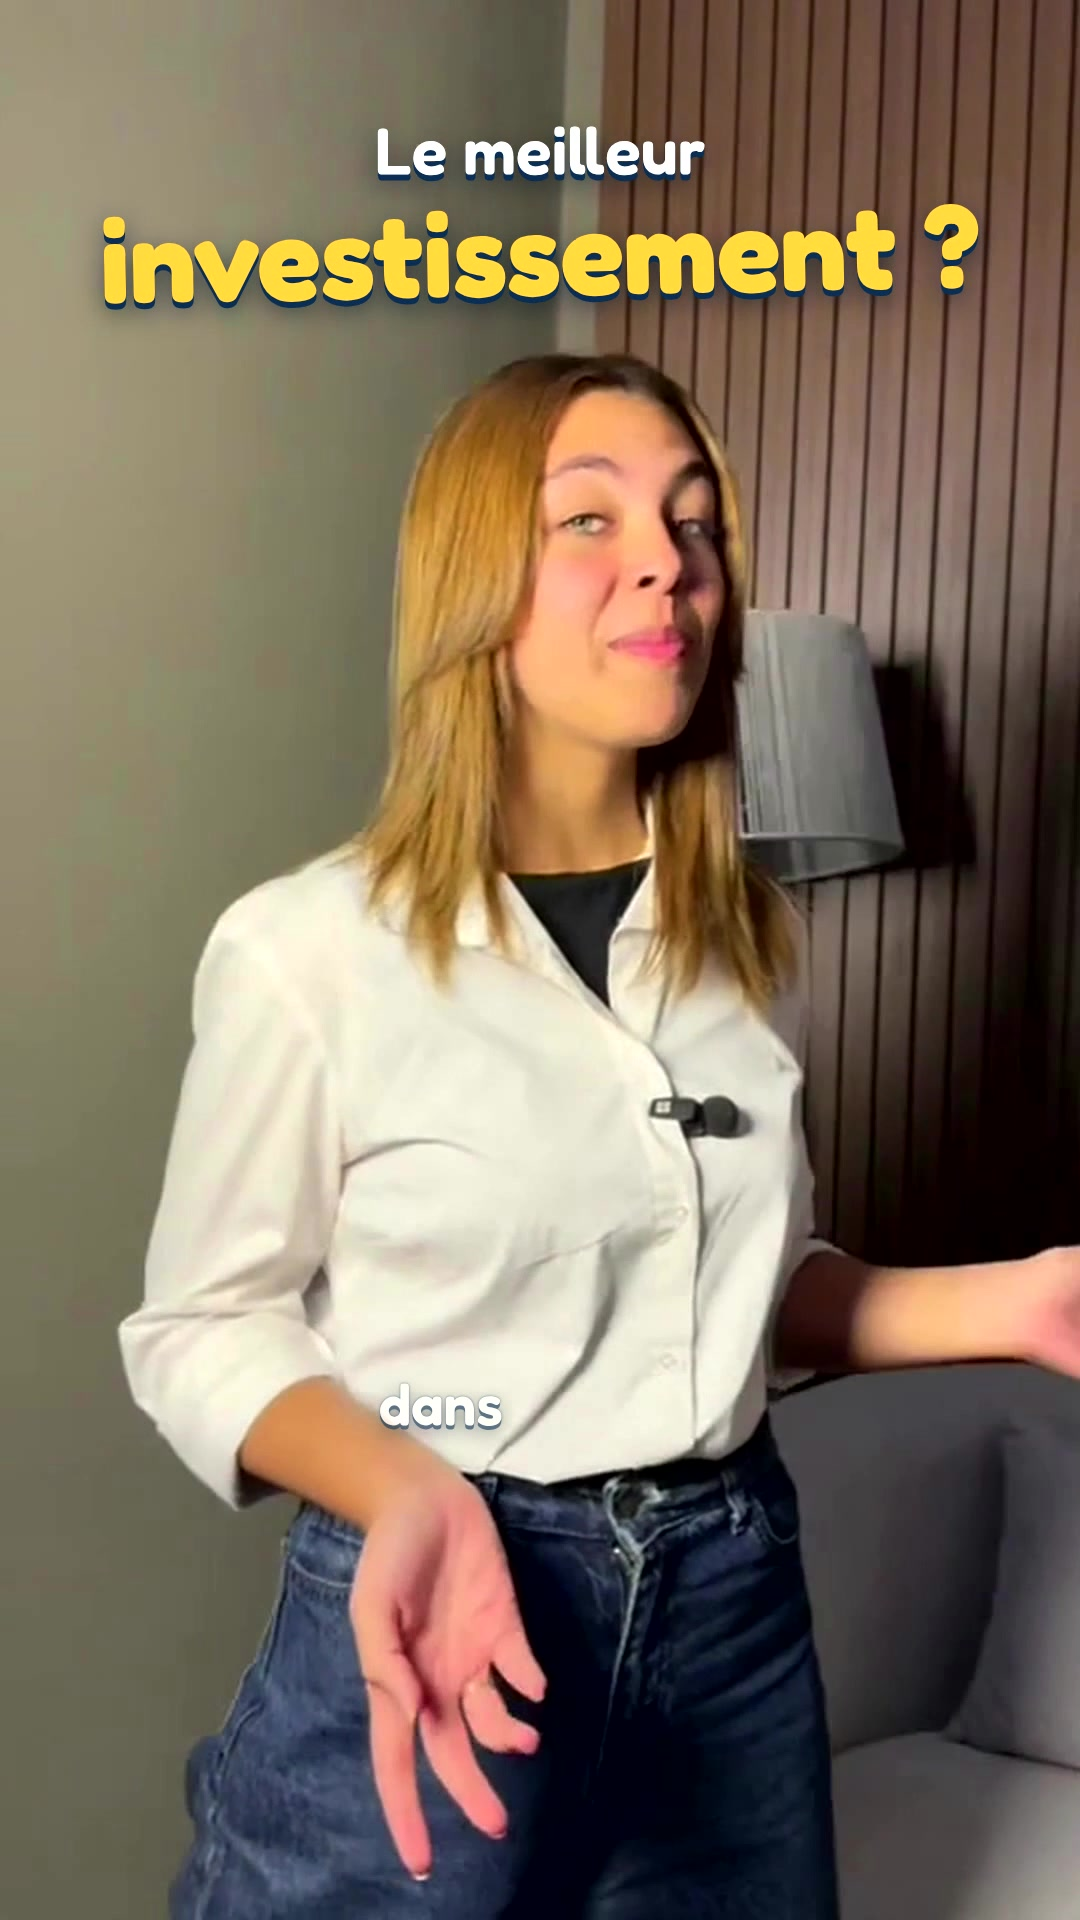
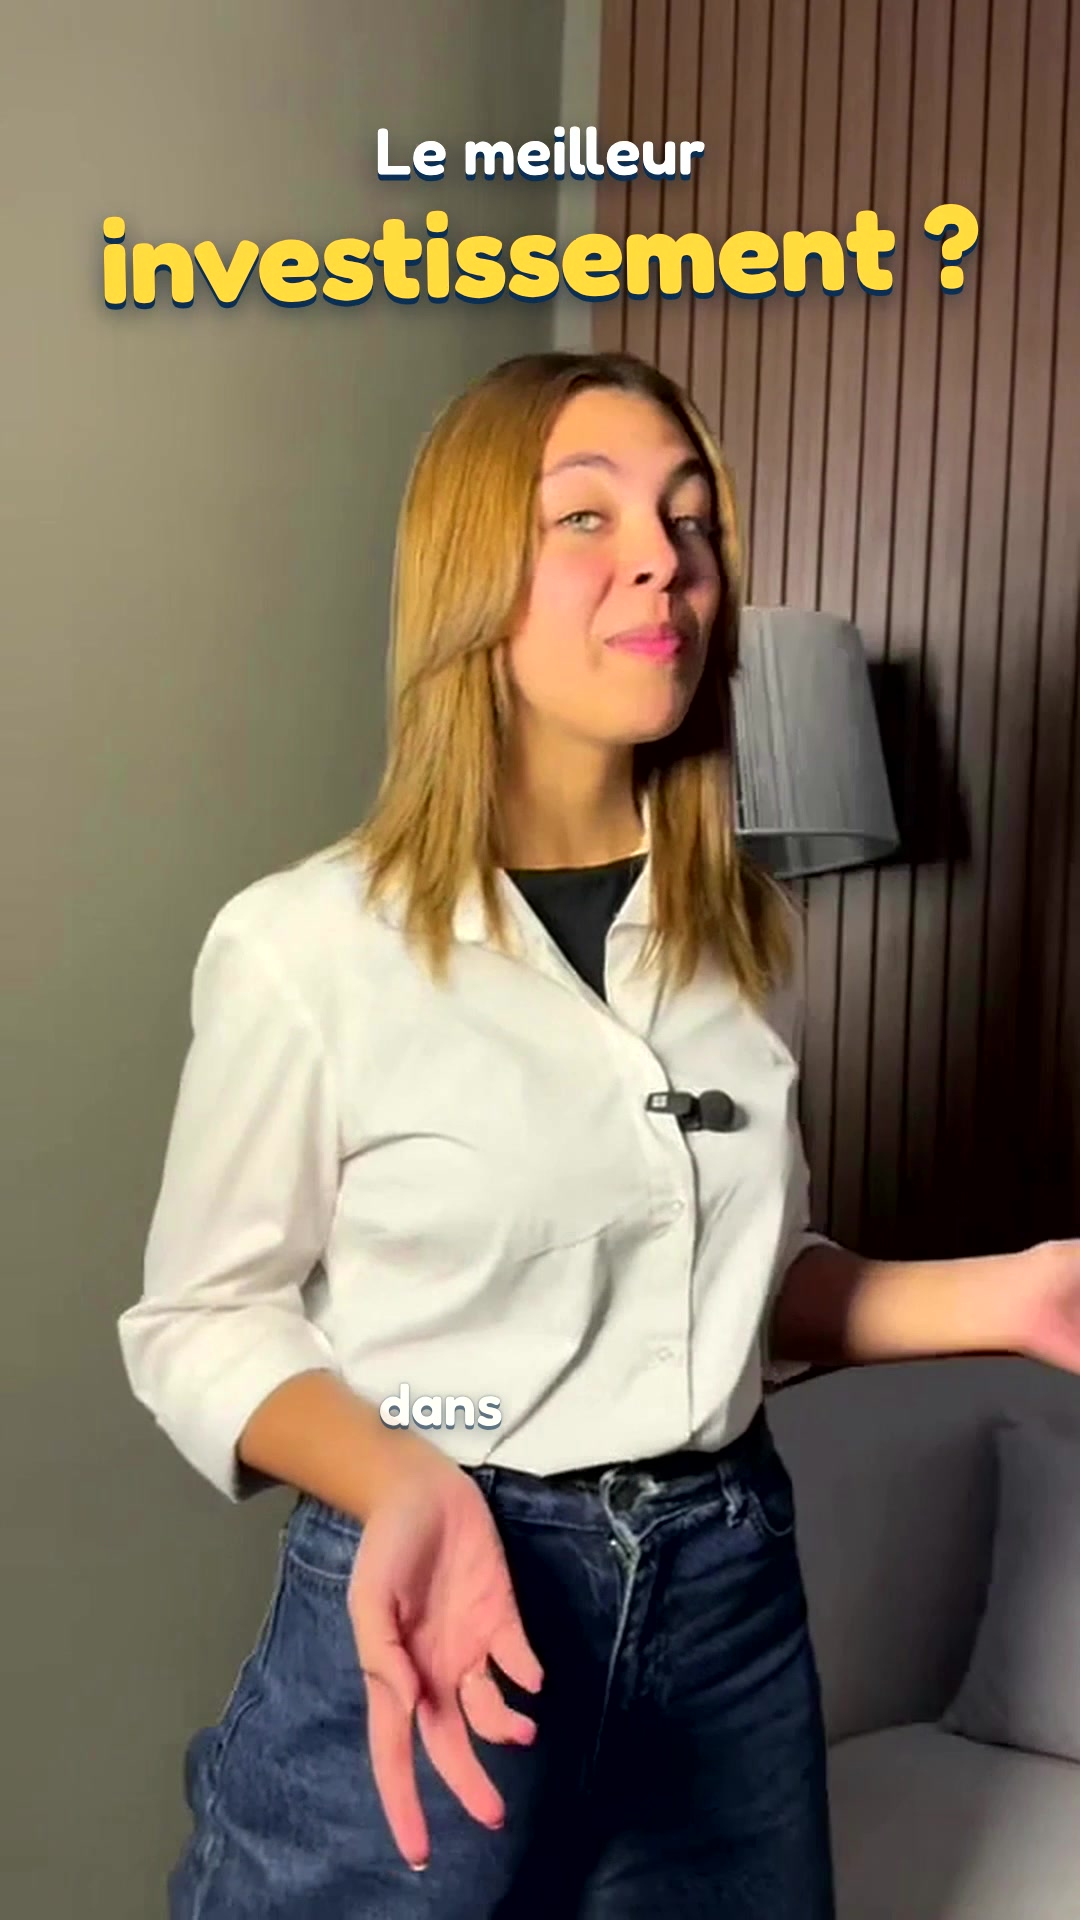
short-kidstudio: smoother zoom transitions (30 fps, smootherstep through the cut), better upscale and export quality
Claude-Session: https://claude.ai/code/session_01AxhibgRmBs7v8bGQfSccih

diff --git a/video-agent/edits/short-kidstudio/source/spec.js b/video-agent/edits/short-kidstudio/source/spec.js
@@ -5,7 +5,7 @@
 window.SPEC = {
   title: 'KidStudio - anglais pour enfants',
   media: { mg: { src: 'assets/mg.mov', width: 1080, alpha: true } },
-  cam: { crop: [0, 0, 1080, 1920], eyes: [540, 640] },
+  cam: { crop: [0, 0, 1080, 1920], eyes: [540, 640], q: 1 },   // q 1: near-lossless camera frames (480p take upscaled)
   // dead air between sentences cut to a short breath; the two silences after « comme ça » / « ou ça » are kept for the Macron clips
   cut: [[0, 0.38], [3.86, 4.54], [6.98, 7.97], [12.0, 12.28], [23.9, 24.1], [27.93, 28.23], [32.93, 33.51], [37.33, 37.81], [44.25, 44.88], [47.3, 99]],
   tighten: { gap: 99 },

diff --git a/video-agent/styles/ref/STYLE.md b/video-agent/styles/ref/STYLE.md
@@ -53,3 +53,4 @@ Voix en darija marocaine, sous-titres traduits en français.
 - 9 novembre 2026 : les micro-coupes de silence (24 coupes en 30 s) : « pas smooth, pas naturel ». Désormais la prise reste entière, sans aucune coupe.
 - 9 novembre 2026 : le flou de mouvement sur les transitions (« vraiment nul »). Remplacé par des zooms nets : zoom avant à travers la coupe, dézoom après la coupe.
 - 9 novembre 2026 : les blancs entre les phrases (« enlève complètement le côté naturel »). Coupés à ~0,2 s, pauses des virgules gardées.
+- 11 novembre 2026 : zooms pas fluides et qualité trop basse (KidStudio). Corrigé : prise à 30 i/s avant le zoom, courbe smootherstep à travers la coupe, upscale soigné, export CRF 17.
